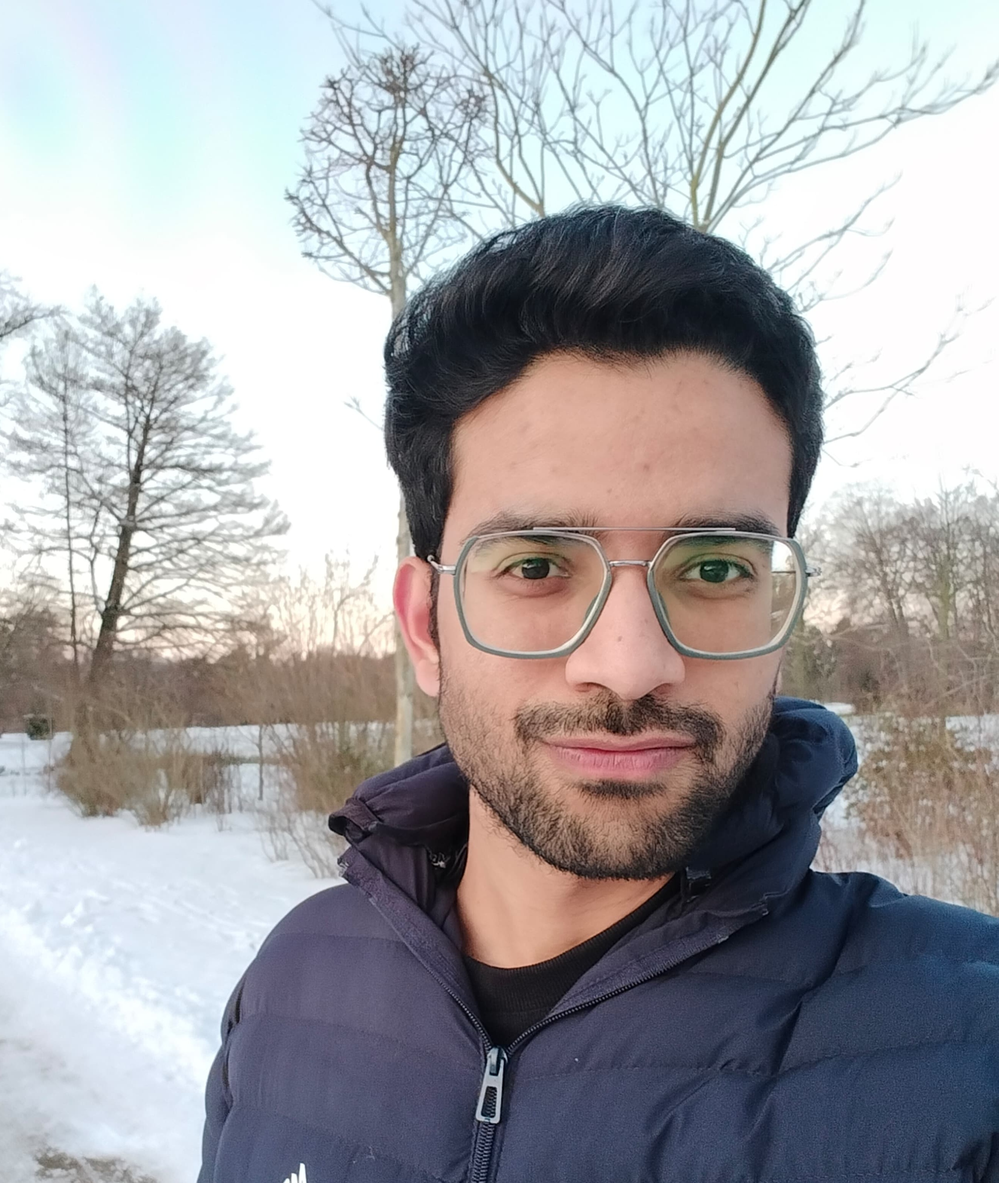
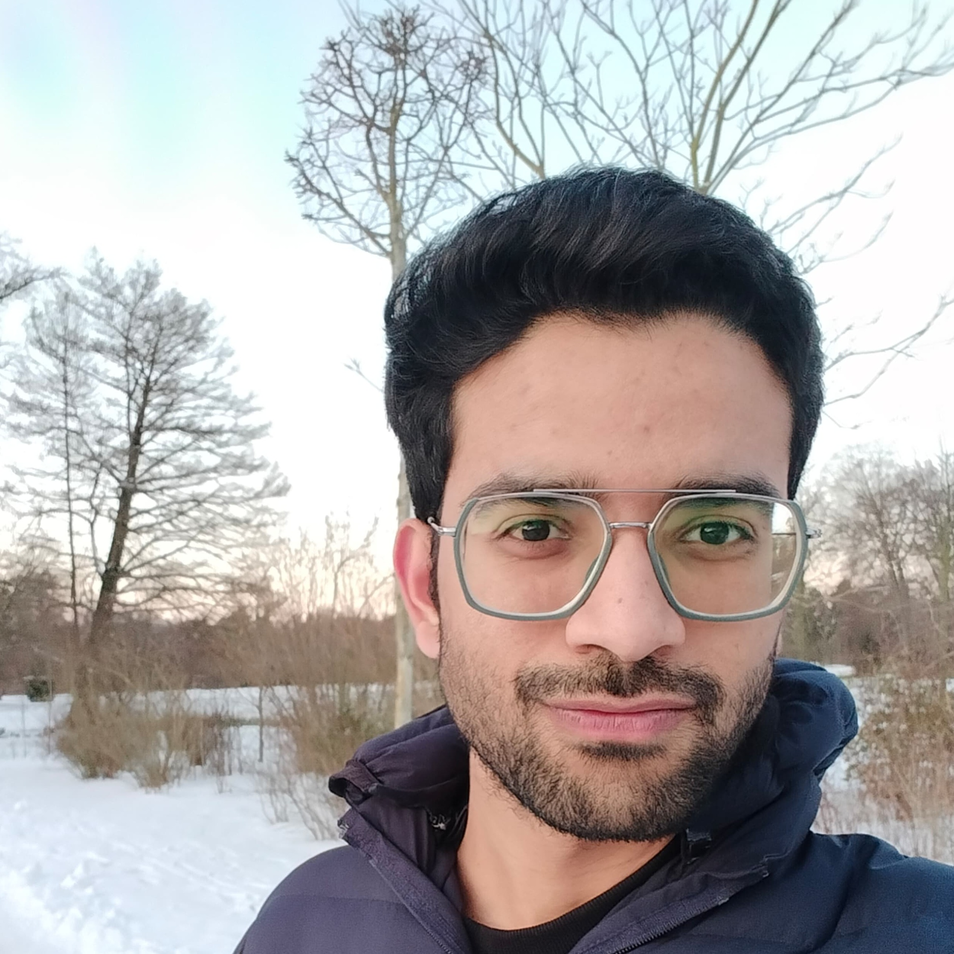
11-02-2025

diff --git a/_pages/team_members.md b/_pages/team_members.md
@@ -75,7 +75,10 @@ PhD_students3:
 PhD_students4:
   - image_path: /images/AdkhamM.jpg
     title: Adkham Mamaraimov
-    excerpt: 'Snow Water Equivalent and Remote Sensing'
+    excerpt: 'Snow Water Equivalent and Remote Sensing'
+  - image_path: /images/
+    title: Florian Leder
+    excerpt: 'Offset Pixel Tracking and landslides'
 
 
 MSc_students1:
